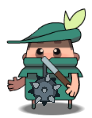
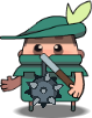
Aantal sprites zijn correcte grotes

diff --git a/GameObjects/PlayerFollower.cs b/GameObjects/PlayerFollower.cs
@@ -1,4 +1,5 @@
 using Microsoft.Xna.Framework;
+using Microsoft.Xna.Framework.Graphics;
 using System;
 using System.Collections.Generic;
 using System.Text;
@@ -16,6 +17,17 @@ namespace Poloknightse
 
         public PlayerFollower(Point gridPosition) : base(gridPosition, sprites[GameEnvironment.Random.Next(sprites.Length)])
         {
+        }
+
+
+        public override void Draw(SpriteBatch spriteBatch)
+        {
+            positionSize = new Rectangle(
+            gridPosition.X * LevelLoader.gridTileSize + GameEnvironment.startGridPoint.X + (int)(LevelLoader.gridTileSize / 2),
+                gridPosition.Y * LevelLoader.gridTileSize + GameEnvironment.startGridPoint.Y + (int)(LevelLoader.gridTileSize),
+                (int)(texture.Width * LevelLoader.scalingFactor),
+                (int)(texture.Height * LevelLoader.scalingFactor));
+            spriteBatch.Draw(texture, positionSize, null, Color.White, 0, new Vector2(texture.Width / 2, texture.Height), SpriteEffects.None, 1);
         }
     }
 }

diff --git a/GameObjects/EnemyWalking.cs b/GameObjects/EnemyWalking.cs
@@ -3,6 +3,7 @@ using System;
 using System.Collections.Generic;
 using System.Text;
 using System.Diagnostics;
+using Microsoft.Xna.Framework.Graphics;
 
 namespace Poloknightse
 {
@@ -255,6 +256,16 @@ namespace Poloknightse
             {
                 stateMachine.SetState("Chase");
             }
+        }
+
+        public override void Draw(SpriteBatch spriteBatch)
+        {
+            positionSize = new Rectangle(
+            gridPosition.X * LevelLoader.gridTileSize + GameEnvironment.startGridPoint.X + (int)(LevelLoader.gridTileSize / 2),
+                gridPosition.Y * LevelLoader.gridTileSize + GameEnvironment.startGridPoint.Y + (int)(LevelLoader.gridTileSize),
+                (int)(texture.Width * LevelLoader.scalingFactor),
+                (int)(texture.Height * LevelLoader.scalingFactor));
+            spriteBatch.Draw(texture, positionSize, null, Color.White, 0, new Vector2(texture.Width / 2, texture.Height), SpriteEffects.None, 1);
         }
 
         /// <summary>

diff --git a/GameObjects/EnemyShooter.cs b/GameObjects/EnemyShooter.cs
@@ -1,4 +1,5 @@
 using Microsoft.Xna.Framework;
+using Microsoft.Xna.Framework.Graphics;
 using System;
 
 namespace Poloknightse
@@ -106,6 +107,16 @@ namespace Poloknightse
                 currentTime -= countDuration;
                 Shoot(shootDir);
             }
+        }
+
+        public override void Draw(SpriteBatch spriteBatch)
+        {
+            positionSize = new Rectangle(
+            gridPosition.X * LevelLoader.gridTileSize + GameEnvironment.startGridPoint.X + (int)(LevelLoader.gridTileSize / 2),
+            gridPosition.Y * LevelLoader.gridTileSize + GameEnvironment.startGridPoint.Y + (int)(LevelLoader.gridTileSize),
+            (int)(texture.Width * LevelLoader.scalingFactor),
+            (int)(texture.Height * LevelLoader.scalingFactor));
+            spriteBatch.Draw(texture, positionSize, null, Color.White, 0, new Vector2(texture.Width / 2, texture.Height), SpriteEffects.None, 1);
         }
     }
 }

diff --git a/GameManagement/LevelLoader.cs b/GameManagement/LevelLoader.cs
@@ -12,6 +12,8 @@ namespace Poloknightse
         public static int gridTileSize;
         public static Tile[,] grid;
         static int xOffset, yOffset;
+        public static float scalingFactor;
+        static float groundTileSize = 110;
 
         private static Dictionary<Color, Tuple<Type, string, Tile.TileType>> colorTilePairs = new Dictionary<Color, Tuple<Type, string, Tile.TileType>>()
         {
@@ -97,6 +99,7 @@ namespace Poloknightse
 
             //Change the tile size and calculate the center
             gridTileSize = GameEnvironment.Screen.Y / level.Height;
+            scalingFactor = gridTileSize / groundTileSize;
             xOffset = GameEnvironment.Screen.X / 2 - (level.Width / 2) * gridTileSize;
             yOffset = GameEnvironment.Screen.Y / 2 - (level.Height / 2) * gridTileSize;
             GameEnvironment.startGridPoint = new Point(xOffset, yOffset);

diff --git a/GameObjects/Player.cs b/GameObjects/Player.cs
@@ -74,7 +74,14 @@ namespace Poloknightse
 
         public override void Draw(SpriteBatch spriteBatch)
         {
-            base.Draw(spriteBatch);
+            
+                positionSize = new Rectangle(
+                gridPosition.X * LevelLoader.gridTileSize + GameEnvironment.startGridPoint.X + (int)(LevelLoader.gridTileSize/2),
+                gridPosition.Y * LevelLoader.gridTileSize + GameEnvironment.startGridPoint.Y + (int)(LevelLoader.gridTileSize),
+                (int)(texture.Width * LevelLoader.scalingFactor),
+                (int)(texture.Height * LevelLoader.scalingFactor));
+                spriteBatch.Draw(texture, positionSize, null,Color.White,0, new Vector2 (texture.Width/2, texture.Height), SpriteEffects.None, 1);
+            
             foreach (PlayerFollower follower in followers)
             {
                 follower.Draw(spriteBatch);

diff --git a/GameManagement/GameObject.cs b/GameManagement/GameObject.cs
@@ -69,12 +69,15 @@ namespace Poloknightse
 
         public virtual void Draw(SpriteBatch spriteBatch)
         {
-            positionSize = new Rectangle(
+
+            
+                positionSize = new Rectangle(
                 gridPosition.X * LevelLoader.gridTileSize + GameEnvironment.startGridPoint.X,
                 gridPosition.Y * LevelLoader.gridTileSize + GameEnvironment.startGridPoint.Y,
                 LevelLoader.gridTileSize,
                 LevelLoader.gridTileSize);
-            spriteBatch.Draw(texture, positionSize, Color.White);
+                spriteBatch.Draw(texture, positionSize, Color.White);
+            
         }
 
         // boolean to check if to objects collide

diff --git a/GameStates/PlayingState.cs b/GameStates/PlayingState.cs
@@ -94,6 +94,7 @@ namespace Poloknightse
                     }
                 }
             }
+            Debug.WriteLine(LevelLoader.gridTileSize);
         }
 
         public override void HandleInput(InputHelper inputHelper)
